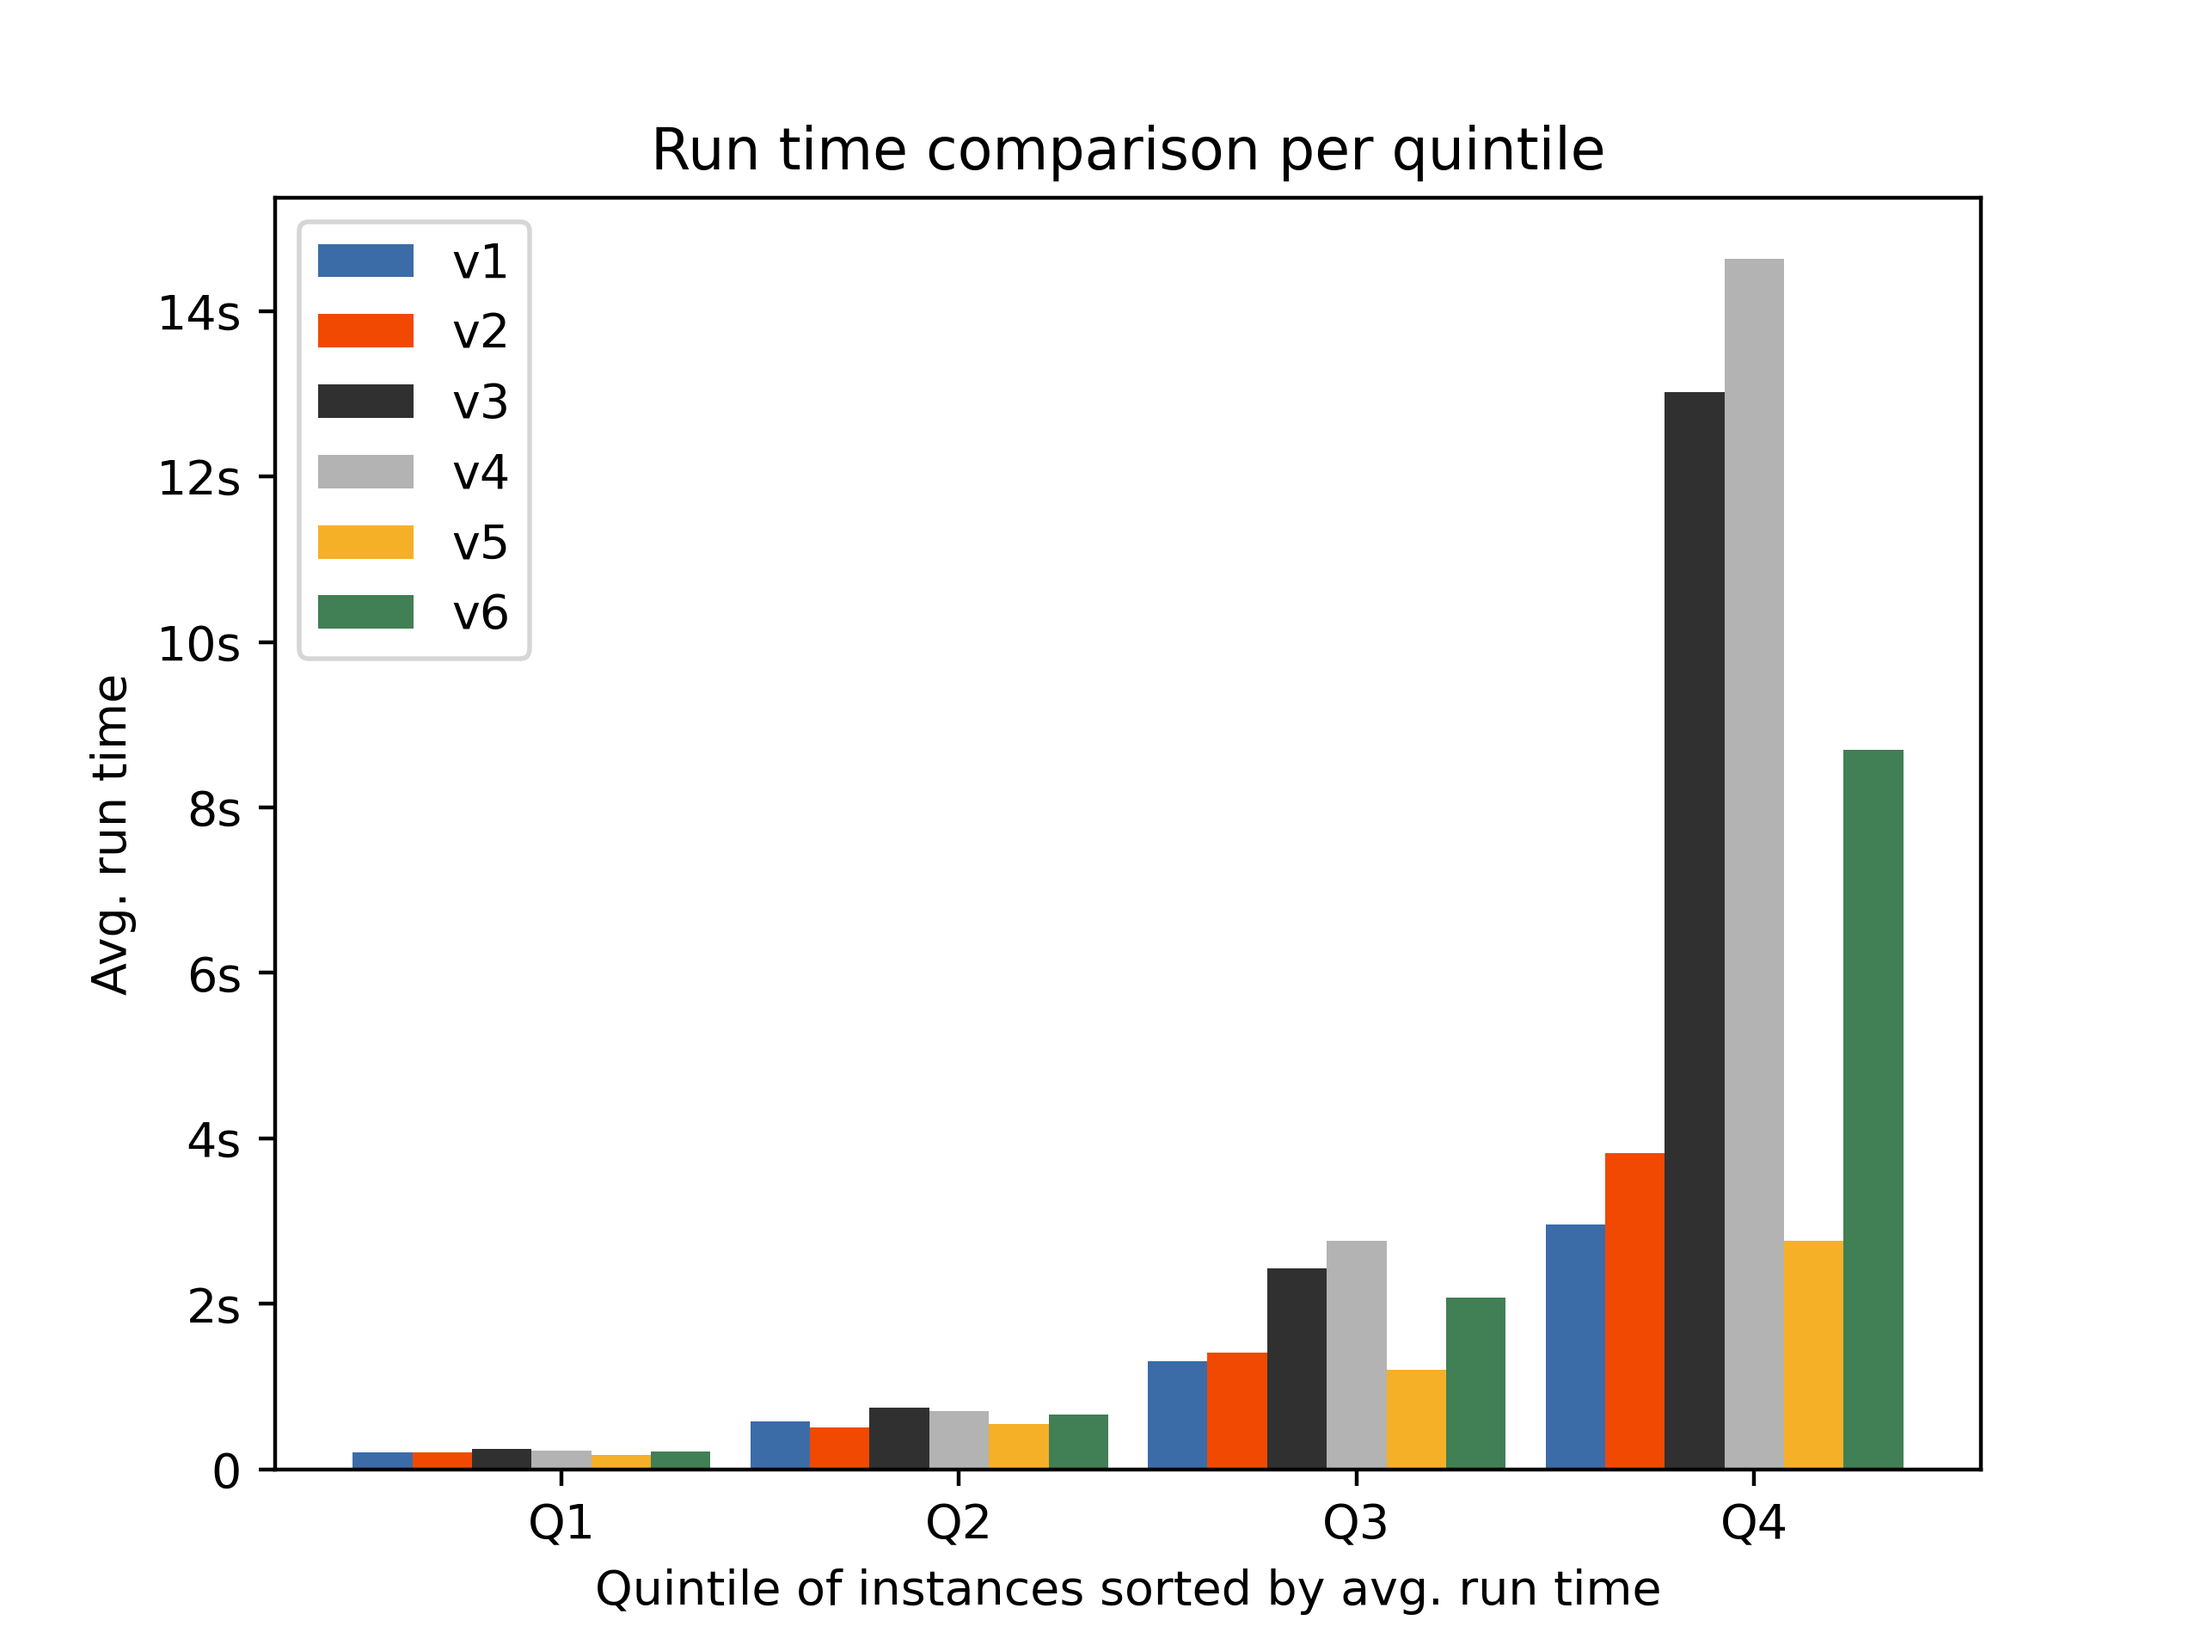
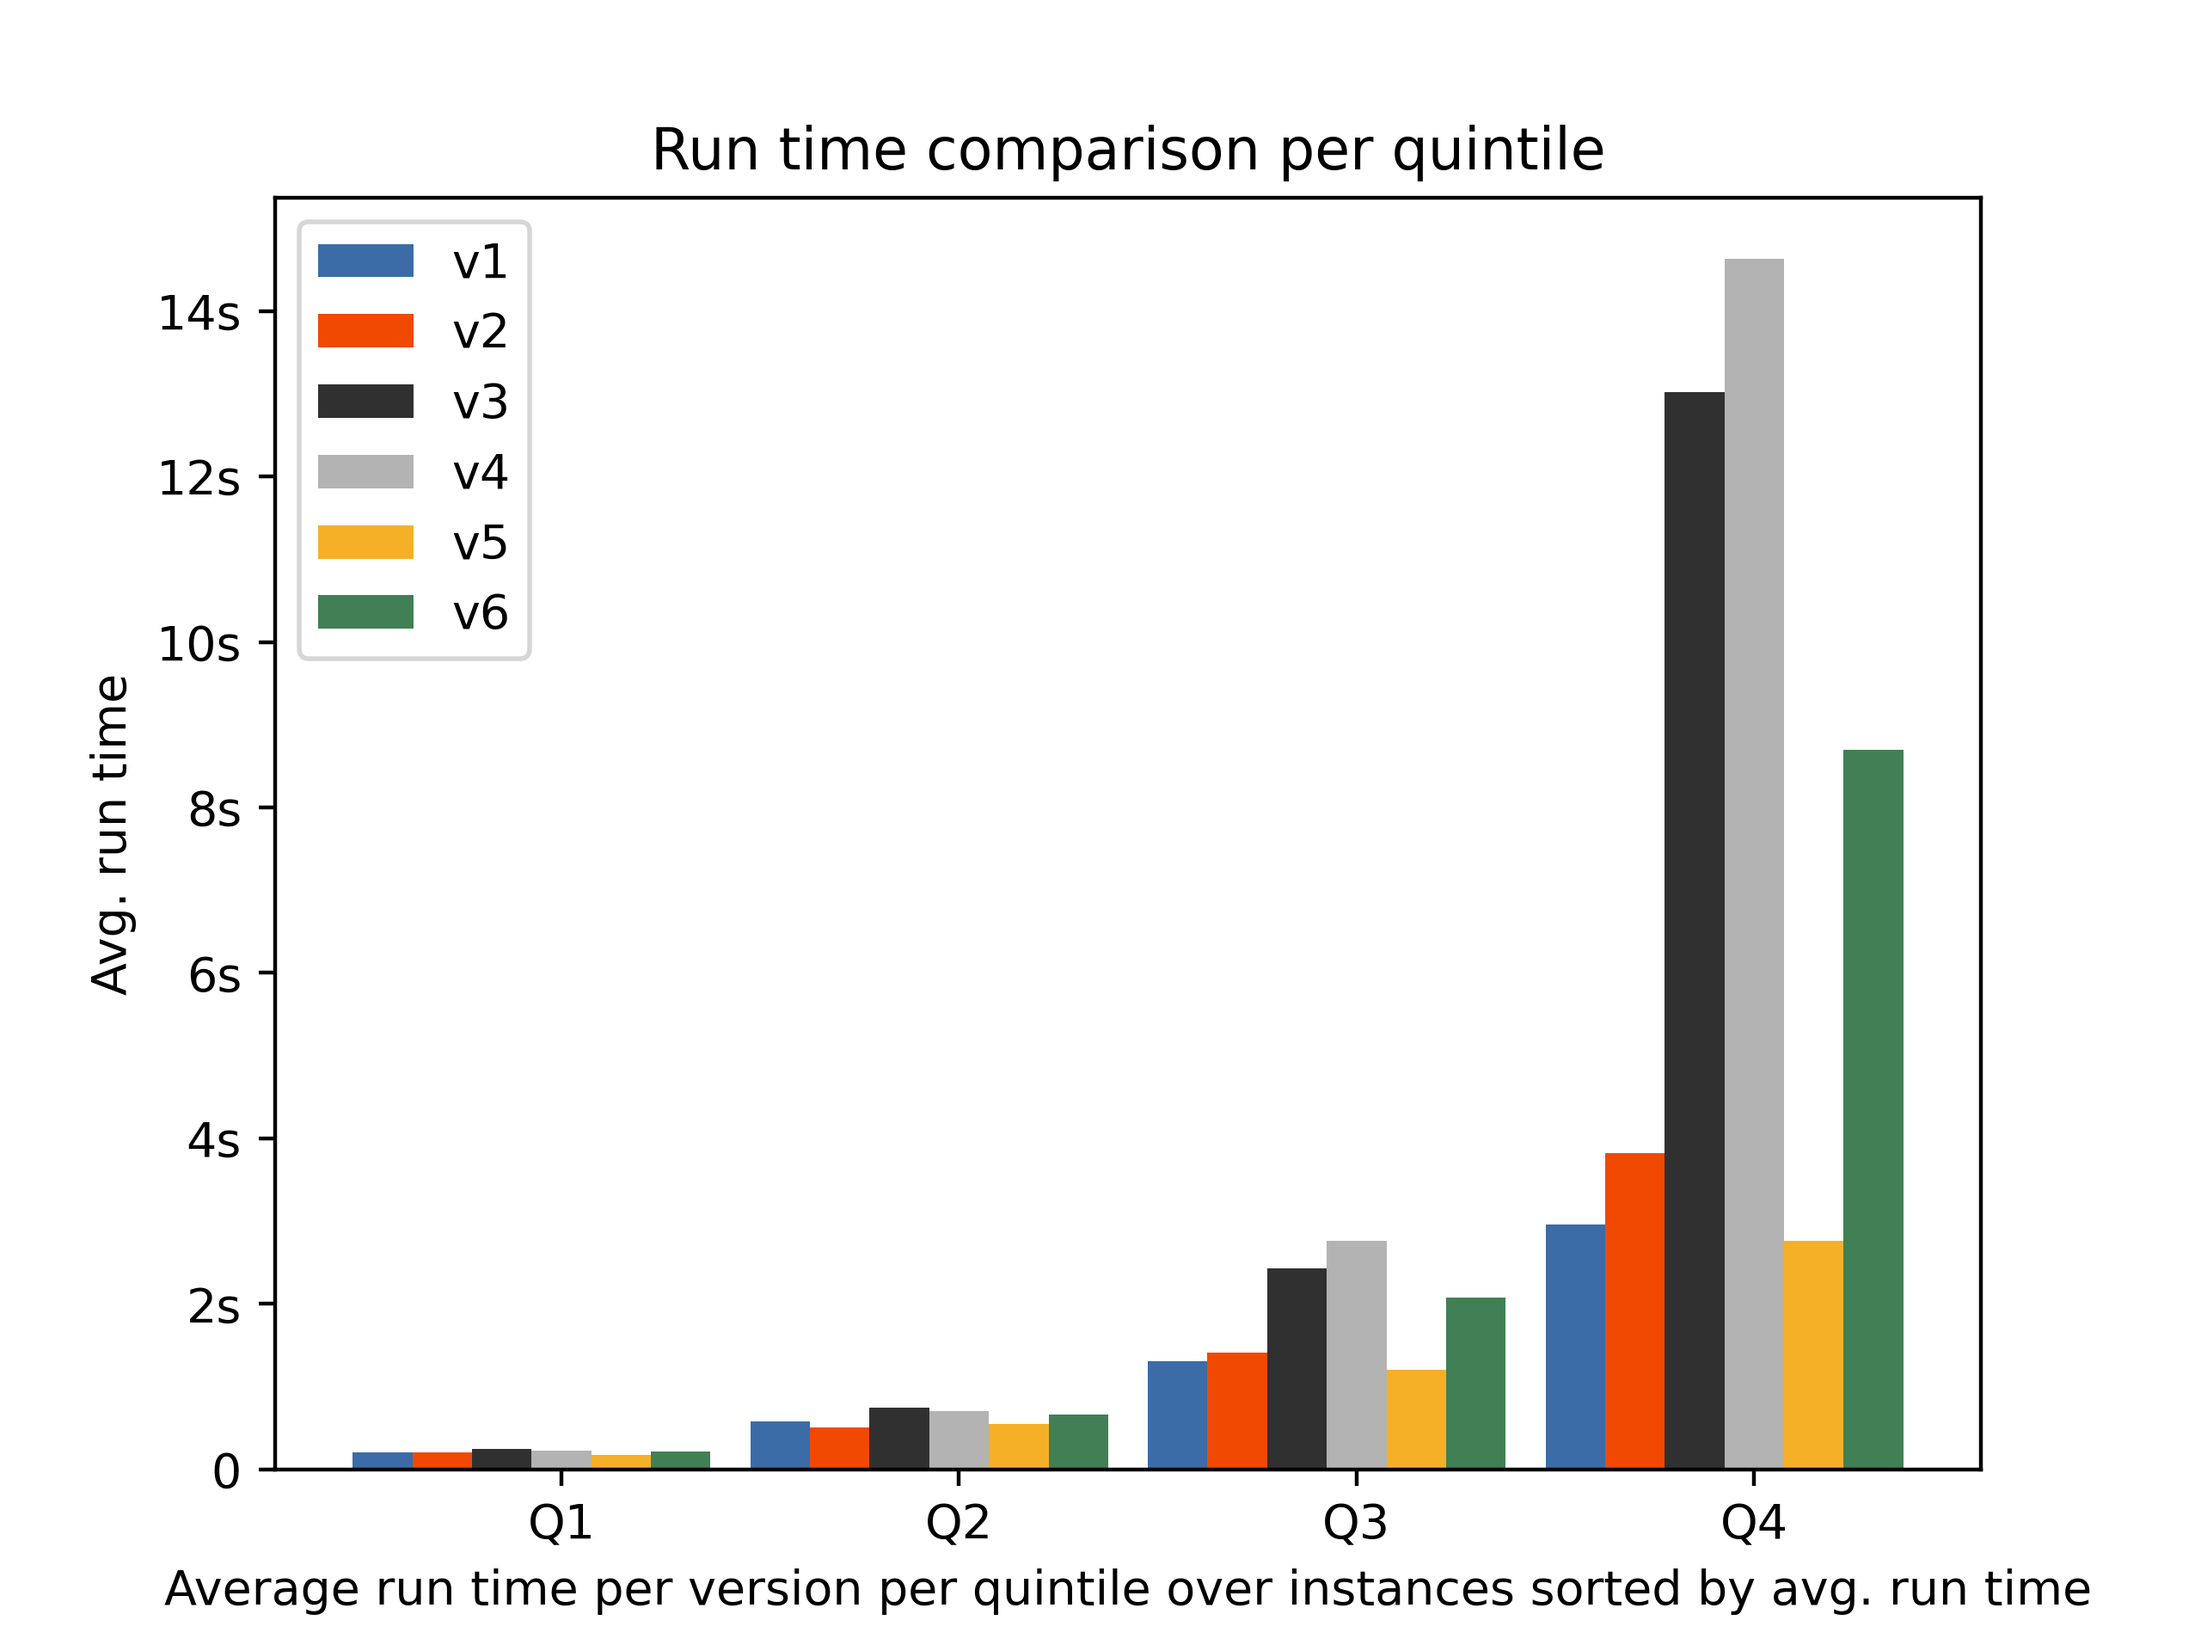
update plots

Changed region(s): [[0.0625, 0.9375, 0.8438, 1.0], [0.875, 0.9375, 0.9375, 0.9688]]

diff --git a/thesis/doc/document.tex b/thesis/doc/document.tex
@@ -427,7 +427,7 @@
   \begin{figure}[h!]
     \centering
     \includegraphics[width=12cm]{../resources/run_time_comparsion_by_quintile.png}
-      \caption{Comparativa de el tiempo de ejecución de todas las versiones en tiempo promedio por quintil. El promedio de las ejecuciones es en el tiempo acumulado.}
+      \caption{Comparativa de el tiempo de ejecución de todas las versiones en tiempo promedio por quintil. El promedio de las ejecuciones es en el tiempo promedio acumulado.}
     \label{figruntimecomparison}
   \end{figure}
 

diff --git a/scripts/processruns.py b/scripts/processruns.py
@@ -206,10 +206,10 @@ def draw_quintile_time_comparison(run_data, output_prefix):
     ax.legend()
 
     ax.set_title('Run time comparison per quintile')
-    ax.set_xlabel('Quintile of instances sorted by avg. run time')
+    ax.set_xlabel('Average run time per version per quintile over instances sorted by avg. run time')
     ax.set_ylabel('Avg. run time')
 
-    fig.savefig(f'{output_prefix}_mean_run_time.png', **savefig_kwargs)
+    fig.savefig(f'{output_prefix}mean_run_time.png', **savefig_kwargs)
 
 
 class InstanceDrawData:
